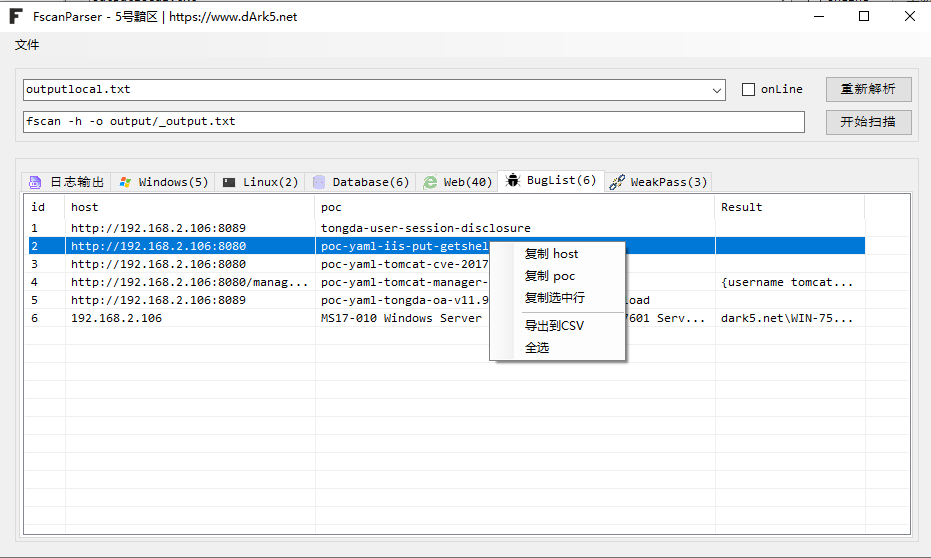
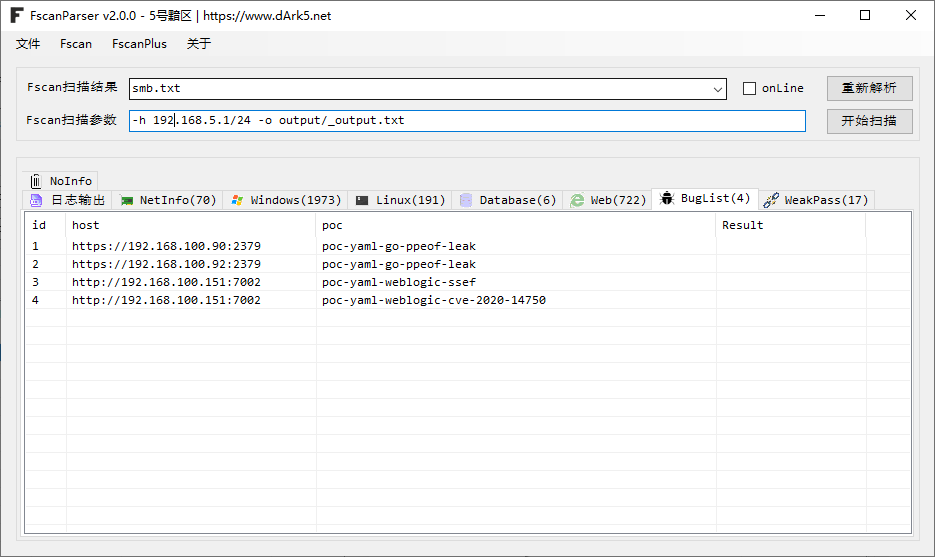
update

Changed region(s): [[0.0, 0.0, 1.0, 1.0], [0.7787, 0.5494, 0.9033, 0.5799], [0.7787, 0.4883, 0.9033, 0.5189]]

diff --git a/README.md b/README.md
@@ -1,5 +1,5 @@
 # FscanParser
- 一个用于处理fsacn输出结果的小工具（尤其面对大量资产的fscan扫描结果做输出优化，让你打点快人五步！！！）
+ 一个用于处理fsacn输出结果的图形化工具（尤其面对大量资产的fscan扫描结果做输出优化，让你打点快人五步！！！）
 
 ## 版本支持
 目前支持最新版本fscan(**1.8.4**)及[FscanPlus](https://github.com/teamdArk5/FscanPlus)的扫描结果：`fscan.exe -h 192.168.5.1/24 -o outputlocal.txt`
@@ -30,13 +30,13 @@ https://www.bilibili.com/video/BV1STpgetEYr/
 
 显示Windows的机器信息
 
-![Windows](images/Windows.png)
+![](images/Windows.png)
 
 ### Web
 
 显示的是Web相关信息
 
-![Web](images/Web.png)
+![](images/Web.png)
 
 
 
@@ -44,13 +44,13 @@ https://www.bilibili.com/video/BV1STpgetEYr/
 
 显示存在漏洞的信息
 
-![BugList](images/BugList.png)
+![](images/BugList.png)
 
 ### WeakPass
 
 显示弱口令信息，支持连接、执行命令、自动截图留存整证明、自动连接并截图导出到docx等
 
-![WeakPass](images/WeakPass.png)
+![](images/WeakPass.png)
 
 	直接连接弱口令，无需再打开其他的连接工具。
 
@@ -61,6 +61,8 @@ https://www.bilibili.com/video/BV1STpgetEYr/
 ![export docx](images/exportDocx.png)
 
 ## 更新
+* 2024年10月23日 v2.0
+  
 * 2024年10月21日 v1.3.7
   * 修复Oracle和postgreSQL结果交叉显示bug
 
